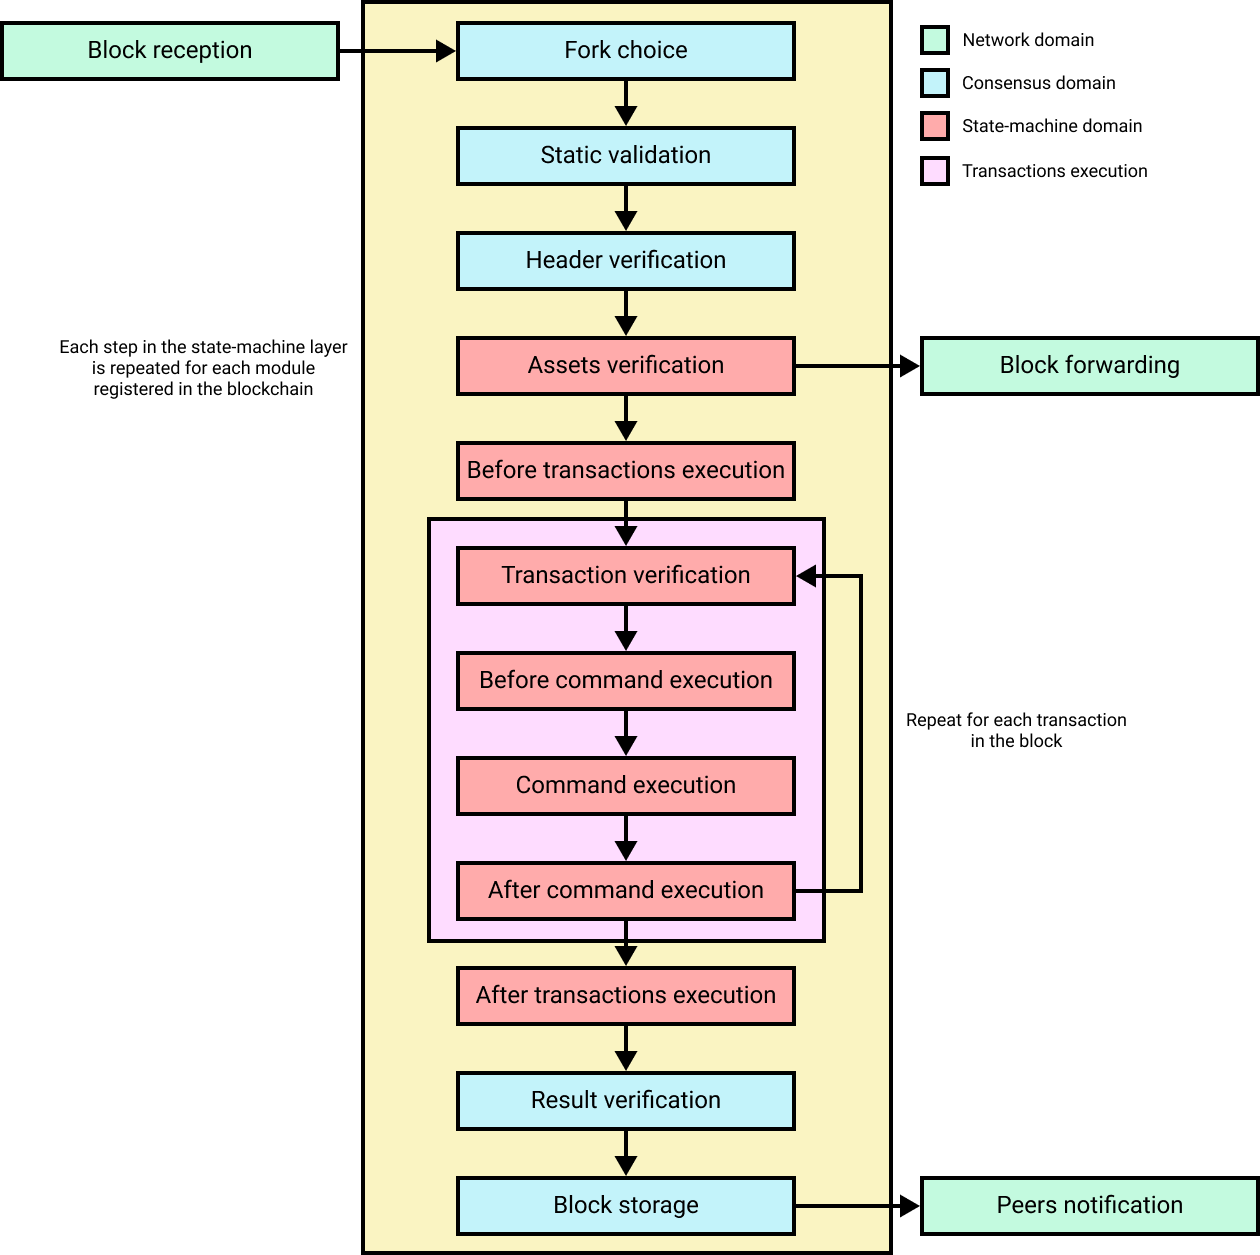
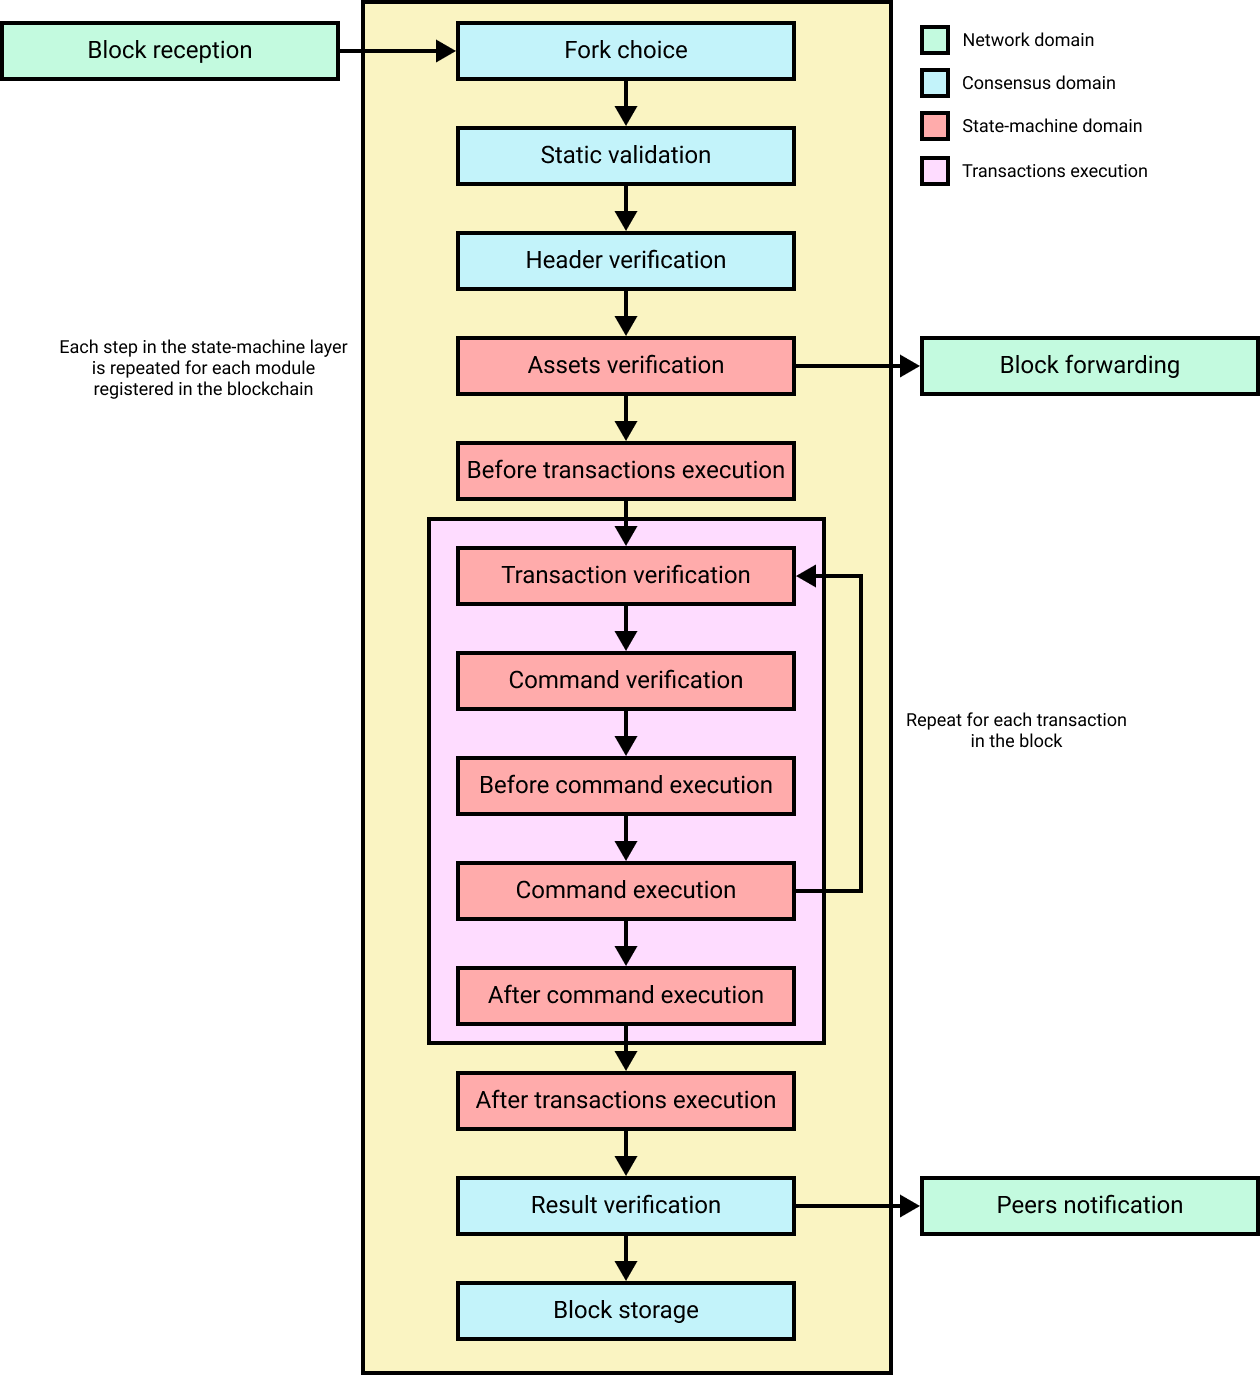
Add command verification step; Clarify that command verification and execution are not called for each module; update figure

diff --git a/proposals/lip-0055.md b/proposals/lip-0055.md
@@ -94,7 +94,7 @@ The block processing is split between the network, consensus, and state-machine 
 
 - The network domain is responsible for exchanging blocks with other peers in the [P2P network][lip-0004].
 - The consensus domain applies the [fork choice rule][lip-0014#fork-choice-rule] and checks the properties contained in the block header.
-- The state-machine checks and applies the module-level logic. All the steps that are part of the state-machine domain are repeated for each module registered in the chain. The transactions processing is performed on the transactions contained in the block as part of the state-machine processing. The four steps in the transactions processing are repeated for each transaction.
+- The state-machine checks and applies the module-level logic. All the steps that are part of the state-machine domain (except "command verification" and "command execution") are repeated for each module registered in the chain. The "command verification" and "command execution" steps are called only for the module to which the command belongs (i.e. with module ID matching the `moduleID` property). The transactions processing is performed on the transactions contained in the block as part of the state-machine processing. The four steps in the transactions processing are repeated for each transaction. 
 
 The full processing of a block is organized as follows.
 
@@ -106,13 +106,14 @@ The full processing of a block is organized as follows.
 6. **Block forwarding**: After the initial checks, the full block is forwarded to a subset of peers.
 7. **Before transactions execution**: Each module can define protocol logic that is executed *before* the transactions contained in the block are processed.
 8. **Transaction verification**: The transaction is verified, possibly by accessing the state store. If the verification fails, the transaction is invalid and the whole block is discarded.
-9. **Before command execution**: Each module can define protocol logic that is processed *before* the command has been executed.
-10. **Command execution**: The command belonging to the module (i.e. with `moduleID` property matching the module ID) is executed.
-11. **After command execution**: Each module can define protocol logic that is processed *after* the command has been executed.
-12. **After transactions execution**: Each module can define protocol logic that is executed *after* all the transactions contained in the block have been processed.
-13. **Result verification**: Block header properties, which require accessing the state store *after* all state transitions implied by the block have been executed, are verified.
-14. **Block storage**: The block is persisted into the database.
-15. **Peers notification**: Other peers in the P2P network are notified of the new block.
+9. **Command verification**: The command corresponding to the `moduleID`-`commandID` combination is verified.
+10. **Before command execution**: Each module can define protocol logic that is processed *before* the command has been executed.
+11. **Command execution**: The command corresponding to the `moduleID`-`commandID` combination is executed.
+12. **After command execution**: Each module can define protocol logic that is processed *after* the command has been executed.
+13. **After transactions execution**: Each module can define protocol logic that is executed *after* all the transactions contained in the block have been processed.
+14. **Result verification**: Block header properties, which require accessing the state store *after* all state transitions implied by the block have been executed, are verified.
+15. **Block storage**: The block is persisted into the database.
+16. **Peers notification**: Other peers in the P2P network are notified of the new block.
 
 ### Block
 
